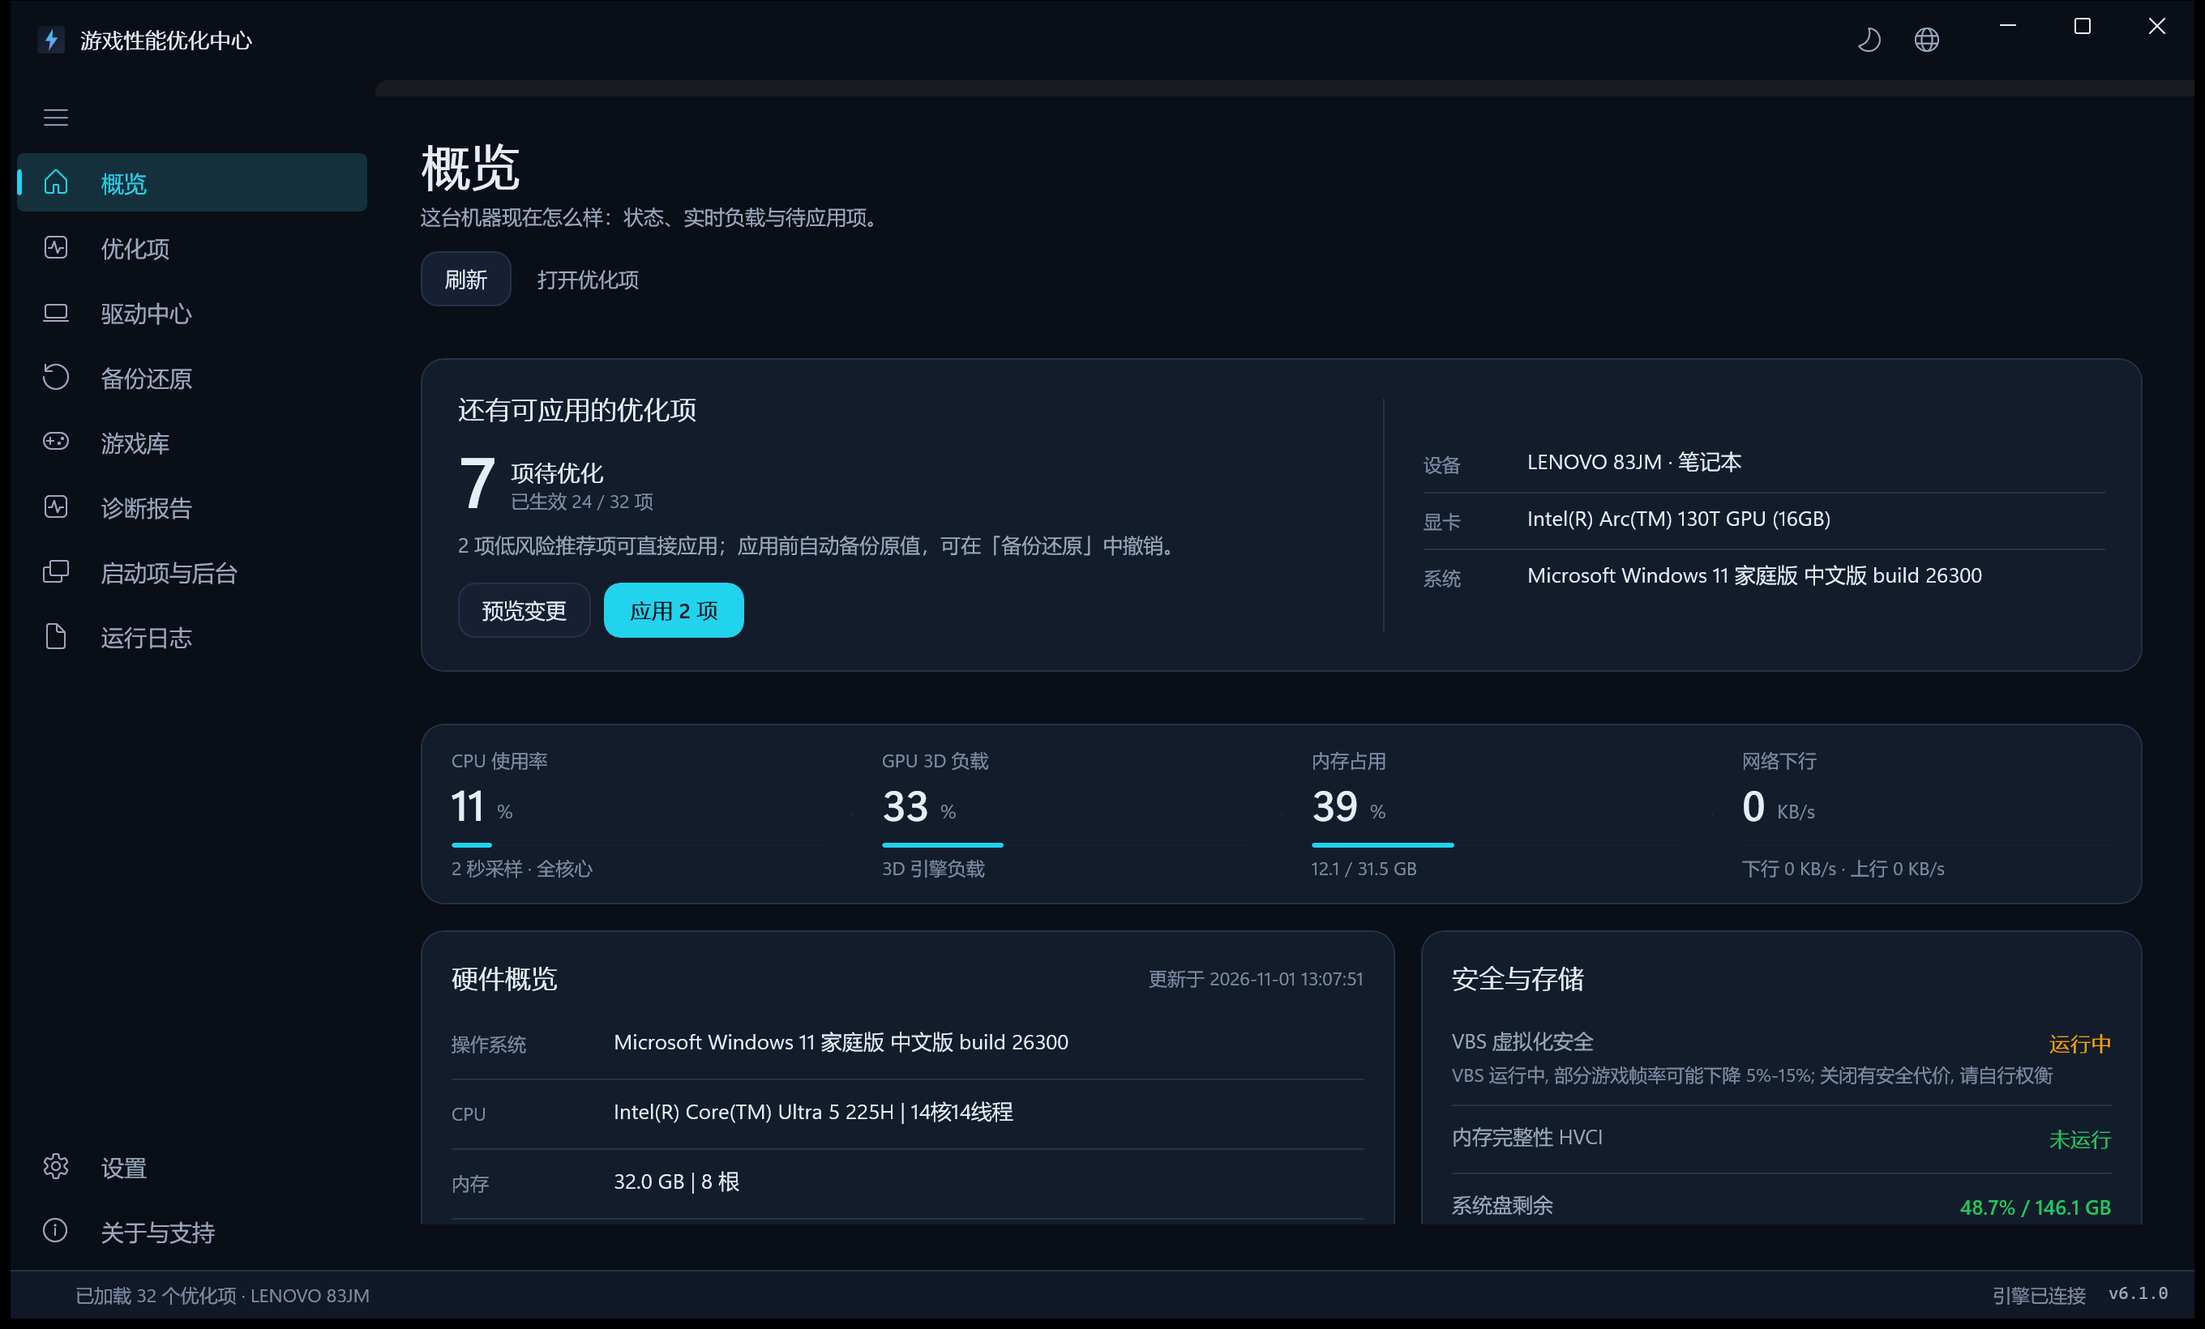
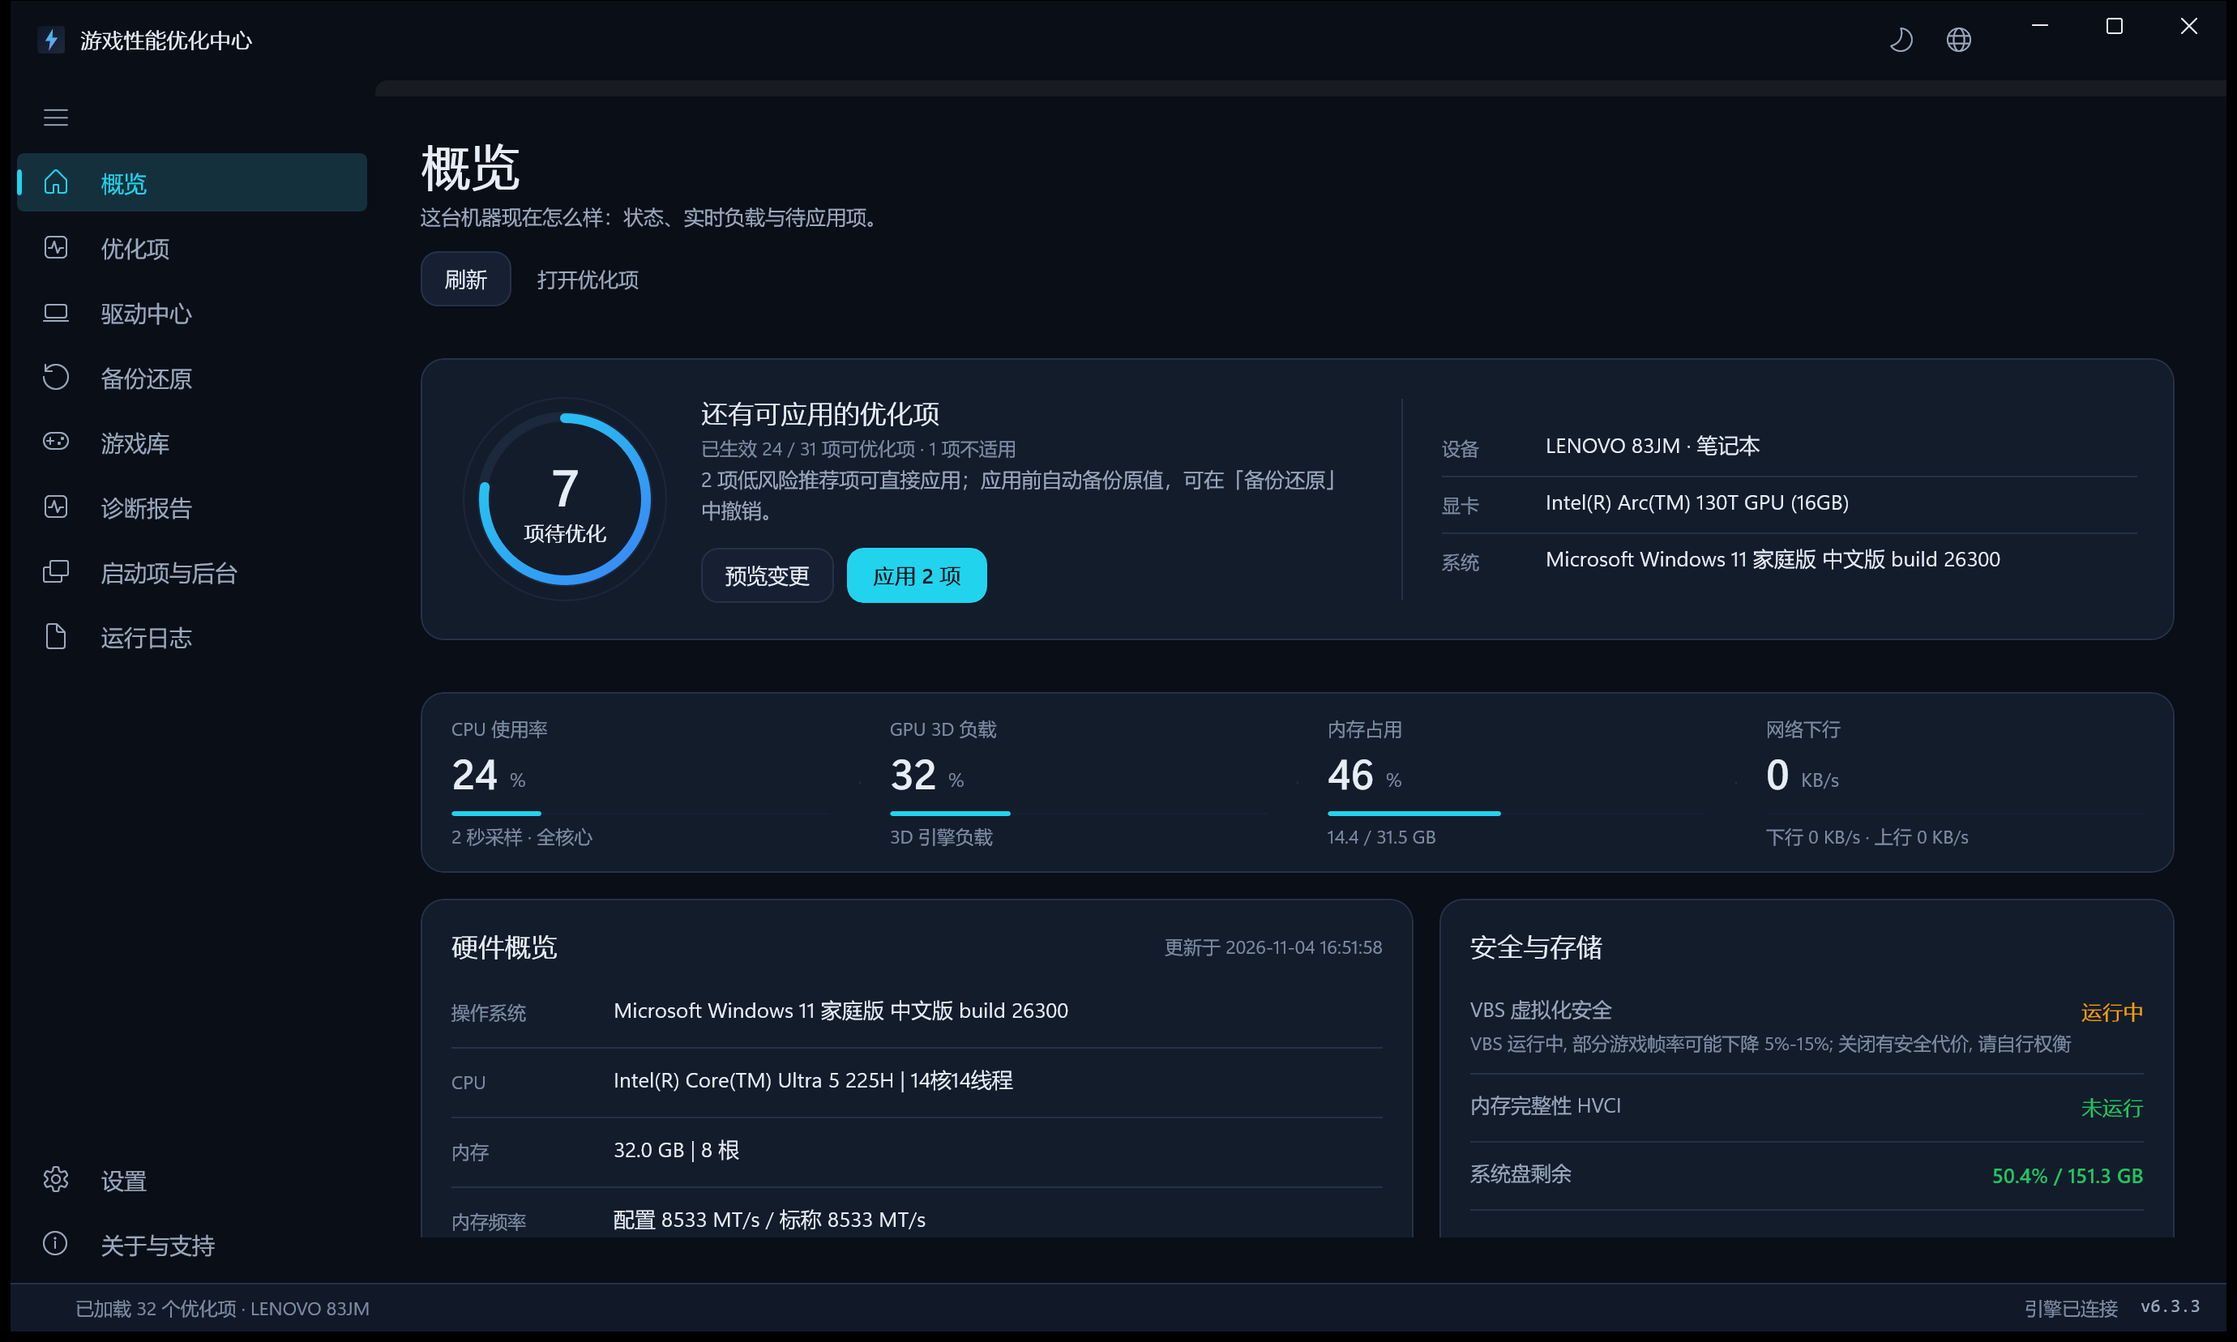
feat: 概览页新增完成度轨道仪表
用 Galaxy 的轨道语言呈现真实已生效比例；完成度分母排除不适用项，
并把不适用数量写进结论行，避免已生效与待优化相加对不上总数。

diff --git a/src/GamePerfCenter/Pages/OverviewPage.xaml b/src/GamePerfCenter/Pages/OverviewPage.xaml
@@ -50,31 +50,51 @@
                             <RowDefinition Height="Auto" />
                         </Grid.RowDefinitions>
 
-                        <StackPanel x:Name="StatusMain" Spacing="4" VerticalAlignment="Center">
-                            <TextBlock x:Name="StatusHeadline" Text="正在读取本机状态..."
-                                       Style="{StaticResource SectionTitleStyle}" />
-                            <StackPanel Orientation="Horizontal" Spacing="8" Margin="0,2,0,0">
-                                <TextBlock x:Name="PendingCount" Text="--" FontFamily="{StaticResource DisplayFontFamily}"
-                                           FontSize="44" FontWeight="SemiBold" Foreground="{ThemeResource TextBrush}"
-                                           TextWrapping="NoWrap" VerticalAlignment="Center" />
-                                <StackPanel Spacing="1" VerticalAlignment="Bottom" Margin="0,0,0,8">
-                                    <TextBlock Text="项待优化" FontSize="14" FontWeight="SemiBold"
-                                               Foreground="{ThemeResource TextBrush}" />
-                                    <TextBlock x:Name="AppliedText" Text="已生效 -- 项"
-                                               Style="{StaticResource CaptionTextStyle}" />
+                        <Grid x:Name="StatusMain" ColumnSpacing="18" VerticalAlignment="Center">
+                            <Grid.ColumnDefinitions>
+                                <ColumnDefinition Width="Auto" />
+                                <ColumnDefinition Width="*" />
+                            </Grid.ColumnDefinitions>
+
+                            <!-- 完成度轨道：数字来自真实 applied / total，外圈只做低对比度轨道母题 -->
+                            <Grid x:Name="StatusGauge" Width="132" Height="132" VerticalAlignment="Center"
+                                  ToolTipService.ToolTip="优化完成度：已生效项占可优化项的比例">
+                                <Ellipse Width="126" Height="126" Stroke="{ThemeResource BorderBrush}"
+                                         StrokeThickness="1" Opacity="0.5"
+                                         HorizontalAlignment="Center" VerticalAlignment="Center" />
+                                <Ellipse Width="108" Height="108" Stroke="{ThemeResource BorderBrush}"
+                                         StrokeThickness="6" Opacity="0.55"
+                                         HorizontalAlignment="Center" VerticalAlignment="Center" />
+                                <Path x:Name="ProgressArc" Width="108" Height="108" Stretch="None"
+                                      Stroke="{ThemeResource AccentGradientBrush}" StrokeThickness="6"
+                                      StrokeStartLineCap="Round" StrokeEndLineCap="Round"
+                                      HorizontalAlignment="Center" VerticalAlignment="Center" />
+                                <StackPanel HorizontalAlignment="Center" VerticalAlignment="Center" Spacing="0">
+                                    <TextBlock x:Name="PendingCount" Text="--" FontFamily="{StaticResource DisplayFontFamily}"
+                                               FontSize="32" FontWeight="SemiBold" Foreground="{ThemeResource TextBrush}"
+                                               TextWrapping="NoWrap" HorizontalAlignment="Center" />
+                                    <TextBlock Text="项待优化" FontSize="12.5" FontWeight="SemiBold"
+                                               Foreground="{ThemeResource TextBrush}" HorizontalAlignment="Center" />
+                                </StackPanel>
+                            </Grid>
+
+                            <StackPanel Grid.Column="1" Spacing="4" VerticalAlignment="Center">
+                                <TextBlock x:Name="StatusHeadline" Text="正在读取本机状态..."
+                                           Style="{StaticResource SectionTitleStyle}" />
+                                <TextBlock x:Name="AppliedText" Text="已生效 -- 项"
+                                           Style="{StaticResource CaptionTextStyle}" />
+                                <TextBlock x:Name="StatusDetail" Text="正在采集硬件与优化项状态。"
+                                           Style="{StaticResource SecondaryTextStyle}" MaxWidth="520"
+                                           HorizontalAlignment="Left" TextWrapping="Wrap" />
+                                <StackPanel Orientation="Horizontal" Spacing="8" Margin="0,8,0,0">
+                                    <Button Content="预览变更" Style="{StaticResource SubtleButtonStyle}" Click="Preview_Click"
+                                            ToolTipService.ToolTip="只读预演，不写入系统" />
+                                    <Button x:Name="ApplyRecommendedButton" Content="应用推荐项"
+                                            Style="{StaticResource AccentButtonStyle}" Click="ApplyRecommended_Click"
+                                            ToolTipService.ToolTip="应用全部低风险推荐项，应用前自动备份原值" />
                                 </StackPanel>
                             </StackPanel>
-                            <TextBlock x:Name="StatusDetail" Text="正在采集硬件与优化项状态。"
-                                       Style="{StaticResource SecondaryTextStyle}" MaxWidth="560"
-                                       HorizontalAlignment="Left" TextWrapping="Wrap" />
-                            <StackPanel Orientation="Horizontal" Spacing="8" Margin="0,8,0,0">
-                                <Button Content="预览变更" Style="{StaticResource SubtleButtonStyle}" Click="Preview_Click"
-                                        ToolTipService.ToolTip="只读预演，不写入系统" />
-                                <Button x:Name="ApplyRecommendedButton" Content="应用推荐项"
-                                        Style="{StaticResource AccentButtonStyle}" Click="ApplyRecommended_Click"
-                                        ToolTipService.ToolTip="应用全部低风险推荐项，应用前自动备份原值" />
-                            </StackPanel>
-                        </StackPanel>
+                        </Grid>
 
                         <Border x:Name="StatusDivider" Grid.Column="1" Width="1"
                                 Background="{ThemeResource BorderBrush}" Margin="0,4" />

diff --git a/src/GamePerfCenter/Styles/Theme.xaml b/src/GamePerfCenter/Styles/Theme.xaml
@@ -19,6 +19,10 @@
             <SolidColorBrush x:Key="AccentBrush" Color="#22D3EE" />
             <SolidColorBrush x:Key="AccentSoftBrush" Color="#15303D" />
             <SolidColorBrush x:Key="AccentForegroundBrush" Color="#04141A" />
+            <LinearGradientBrush x:Key="AccentGradientBrush" StartPoint="0,0" EndPoint="1,1">
+                <GradientStop Color="#22D3EE" Offset="0" />
+                <GradientStop Color="#3B82F6" Offset="1" />
+            </LinearGradientBrush>
             <SolidColorBrush x:Key="OkBrush" Color="#22C55E" />
             <SolidColorBrush x:Key="OkSoftBrush" Color="#12301F" />
             <SolidColorBrush x:Key="WarnBrush" Color="#F59E0B" />
@@ -56,6 +60,10 @@
             <SolidColorBrush x:Key="AccentBrush" Color="#00738C" />
             <SolidColorBrush x:Key="AccentSoftBrush" Color="#E0F5FA" />
             <SolidColorBrush x:Key="AccentForegroundBrush" Color="#FFFFFF" />
+            <LinearGradientBrush x:Key="AccentGradientBrush" StartPoint="0,0" EndPoint="1,1">
+                <GradientStop Color="#00738C" Offset="0" />
+                <GradientStop Color="#1D4ED8" Offset="1" />
+            </LinearGradientBrush>
             <SolidColorBrush x:Key="OkBrush" Color="#15803D" />
             <SolidColorBrush x:Key="OkSoftBrush" Color="#E6F6EC" />
             <SolidColorBrush x:Key="WarnBrush" Color="#B45309" />

diff --git a/src/GamePerfCenter/Pages/OverviewPage.xaml.cs b/src/GamePerfCenter/Pages/OverviewPage.xaml.cs
@@ -2,6 +2,8 @@ using System.Diagnostics;
 using Microsoft.UI.Dispatching;
 using Microsoft.UI.Xaml;
 using Microsoft.UI.Xaml.Controls;
+using Microsoft.UI.Xaml.Media;
+using Windows.Foundation;
 using GamePerfCenter.Models;
 using GamePerfCenter.Services;
 using GamePerfCenter.Helpers;
@@ -97,14 +99,14 @@ public sealed partial class OverviewPage : Page, IThemeAware
                 ? "正在采集硬件与优化项状态。"
                 : App.Services.State.StatusText;
             PendingCount.Text = "--";
-            AppliedText.Text = "已生效 -- 项";
+            UpdateOrbitGauge(0, 0, 0, 0);
             return;
         }
 
         var recommended = GetRecommendedIds();
         var s = snap.Summary;
         PendingCount.Text = s.Pending.ToString();
-        AppliedText.Text = $"已生效 {s.Applied} / {s.Total} 项";
+        UpdateOrbitGauge(s.Applied, s.Total, s.NotApplicable, s.Checking);
         StatusHeadline.Text = s.Pending == 0 ? "当前没有待优化项" : "还有可应用的优化项";
         StatusDetail.Text = s.Pending == 0
             ? "推荐项均已生效。可以打开优化项手动复查，或预览当前配置。"
@@ -147,6 +149,67 @@ public sealed partial class OverviewPage : Page, IThemeAware
             .Take(8)
             .ToList();
         HardwareUpdated.Text = $"更新于 {snap.Time?.Replace('T', ' ')}";
+    }
+
+    /// <summary>
+    /// 按真实已生效比例绘制完成度弧。分母排除“不适用”项，保证已生效 + 待优化 + 不适用与总数一致。
+    /// 0 项时不画弧，100% 时画整圆，避免圆头线帽重叠。
+    /// </summary>
+    private void UpdateOrbitGauge(int applied, int total, int notApplicable, int checking)
+    {
+        var effective = Math.Max(0, total - notApplicable);
+        var fraction = effective > 0 ? Math.Clamp((double)applied / effective, 0d, 1d) : 0d;
+
+        var line = effective > 0
+            ? $"已生效 {applied} / {effective} 项可优化项"
+            : "已生效 -- 项";
+        if (notApplicable > 0) line += $" · {notApplicable} 项不适用";
+        if (checking > 0) line += $" · {checking} 项检测中";
+        AppliedText.Text = line;
+
+        var description = effective > 0
+            ? $"优化完成度 {fraction:P0}：已生效 {applied} / {effective} 项可优化项"
+            : "优化完成度：正在读取本机状态";
+        if (notApplicable > 0)
+            description += $"，另有 {notApplicable} 项不适用";
+        ToolTipService.SetToolTip(StatusGauge, description);
+        Microsoft.UI.Xaml.Automation.AutomationProperties.SetName(StatusGauge, description);
+
+        if (fraction <= 0)
+        {
+            ProgressArc.Data = null;
+            return;
+        }
+
+        if (fraction >= 1)
+        {
+            ProgressArc.Data = new EllipseGeometry
+            {
+                Center = new Point(54, 54),
+                RadiusX = 50,
+                RadiusY = 50
+            };
+            return;
+        }
+
+        var angle = fraction * 360;
+        var radians = (angle - 90) * Math.PI / 180;
+        var figure = new PathFigure
+        {
+            StartPoint = new Point(54, 4),
+            IsClosed = false,
+            IsFilled = false
+        };
+        figure.Segments.Add(new ArcSegment
+        {
+            Point = new Point(54 + 50 * Math.Cos(radians), 54 + 50 * Math.Sin(radians)),
+            Size = new Size(50, 50),
+            SweepDirection = SweepDirection.Clockwise,
+            IsLargeArc = angle > 180
+        });
+        var geometry = new PathGeometry();
+        geometry.Figures.Add(figure);
+        ProgressArc.Data = geometry;
     }
 
     private async Task SampleAsync()

diff --git a/src/GamePerfCenter/Services/AppPaths.cs b/src/GamePerfCenter/Services/AppPaths.cs
@@ -14,7 +14,7 @@ public static class AppPaths
     public static string DiagnosticsDir => Path.Combine(BaseDir, "diagnostics");
     public static string SettingsPath => Path.Combine(BaseDir, "gui-settings.json");
     public static string AppLogPath => Path.Combine(DataDir, "winui.log");
-    public static string Version => "6.3.2";
+    public static string Version => "6.3.3";
 
     public static string UserSid
     {

diff --git a/src/GamePerfCenter.Cli/Program.cs b/src/GamePerfCenter.Cli/Program.cs
@@ -9,7 +9,7 @@ namespace GamePerfCenter.Cli;
 
 internal static class Program
 {
-    private const string Version = "6.3.2";
+    private const string Version = "6.3.3";
 
     private static readonly JsonSerializerOptions JsonOptions = new()
     {

diff --git a/.github/release-notes.md b/.github/release-notes.md
@@ -1,19 +1,18 @@
-## 游戏性能优化中心 v6.3.2 便携版
+## 游戏性能优化中心 v6.3.3 便携版
 
-本次修正 WinUI 版本在部分电脑上“优化引擎无法启动”的问题。根因不是 PowerShell 损坏，而是桥接脚本的编码。
+本次把 Galaxy 组件库的“轨道”视觉语言落到概览页，只做一处主视觉，不改变任何操作路径。
 
-- **定位到真实原因**：`engine-bridge.ps1` 之前保存为无 BOM 的 UTF-8。Windows PowerShell 5.1 在读取无 BOM 脚本时使用系统 ANSI 代码页；在中文系统（GBK/936）或英文系统（1252）上，脚本里的中文引擎文件名会被解码成乱码，桥接进程因此找不到 `游戏性能优化.ps1` 并直接退出。开发机刚好启用了 UTF-8 代码页（65001），所以本地一直正常。
-- **编码修正**：桥接脚本改为 UTF-8 带 BOM，任何代码页下都能正确读取中文文件名和提示文案。
-- **文件名兜底**：即使脚本被第三方编辑器重新保存导致文件名乱码，桥接层也会枚举同目录下的引擎脚本，不再仅因文件名不匹配而误报“引擎缺失”。
-- **发布流程防回归**：`scripts/publish.ps1` 在打包前统一检查并补齐所有 `.ps1` 的 UTF-8 BOM，SHA256 在修正后生成。
-- **故障报告新增检查**：引擎出错时，“脚本编码”会显示桥接脚本与引擎脚本是否缺少 BOM；如果命中，报告会直接给出原因和处理建议，不再只显示“引擎进程异常退出”。
+- **新增完成度轨道**：概览页主卡左侧用一段青色到蓝色的渐变弧显示真实已生效比例，中心仍保留待优化项数量；0 项时不画弧，100% 时画整圆，避免圆头线帽重叠。
+- **数字口径自洽**：完成度分母排除“不适用”项，文案直接写清“已生效 24 / 31 项可优化项 · 1 项不适用”，不再出现已生效与待优化相加对不上总数的情况。
+- **深浅主题适配**：新增 `AccentGradientBrush` token，深色与浅色主题分别取色；轨道、数字与说明文字保持可读对比度。
+- **窄窗口响应**：窗口变窄时轨道与结论文案并排保留，设备信息自动移到下方，不产生横向滚动。
+- **可访问性**：轨道带 ToolTip 与 `AutomationProperties.Name`，悬停或读屏都能获得完成度说明。
 
 验证：
 
-- 用 GBK 解码模拟旧脚本，确认引擎路径会变成乱码；修正后同样条件可正确解析。
-- 桥接进程 `ping` 返回 `pong`，引擎版本与 PowerShell 版本正常。
-- 删除引擎文件名后仍可通过兜底找到并加载。
-- Core、CLI、WinUI Release 构建通过，WinUI 自检页面全部通过。
+- Core、CLI、WinUI Release 构建通过。
+- WinUI 自检 10 个页面全部通过。
+- 深色、浅色与窄窗口均用真实 exe 的非激活预览模式渲染截图检查。
 
 包内包含主程序、引擎、赞赏码、使用说明与 SHA256 校验；不含本机设置、备份和日志。
 
